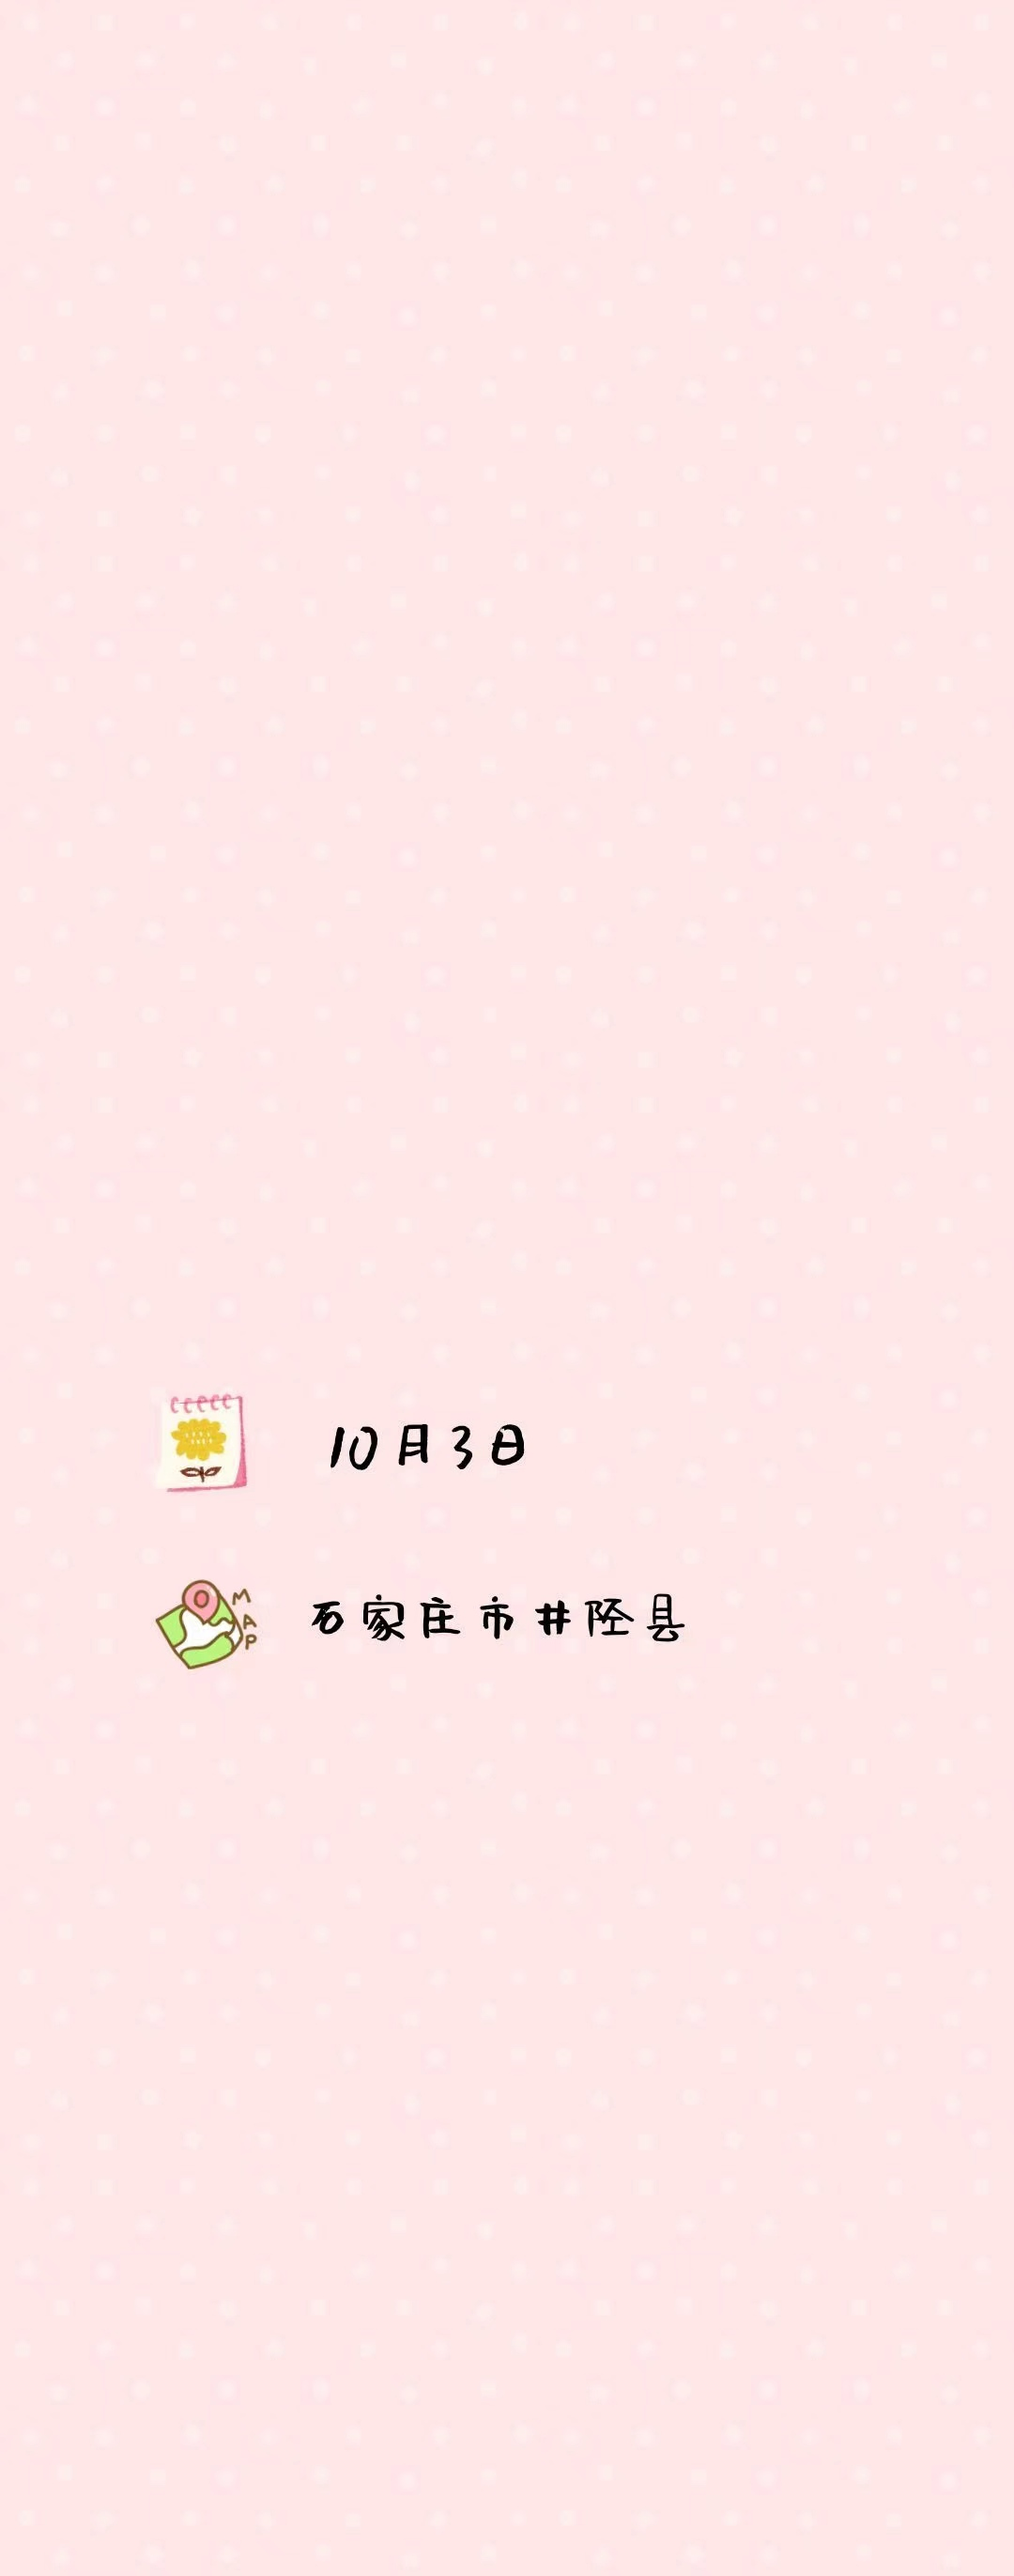
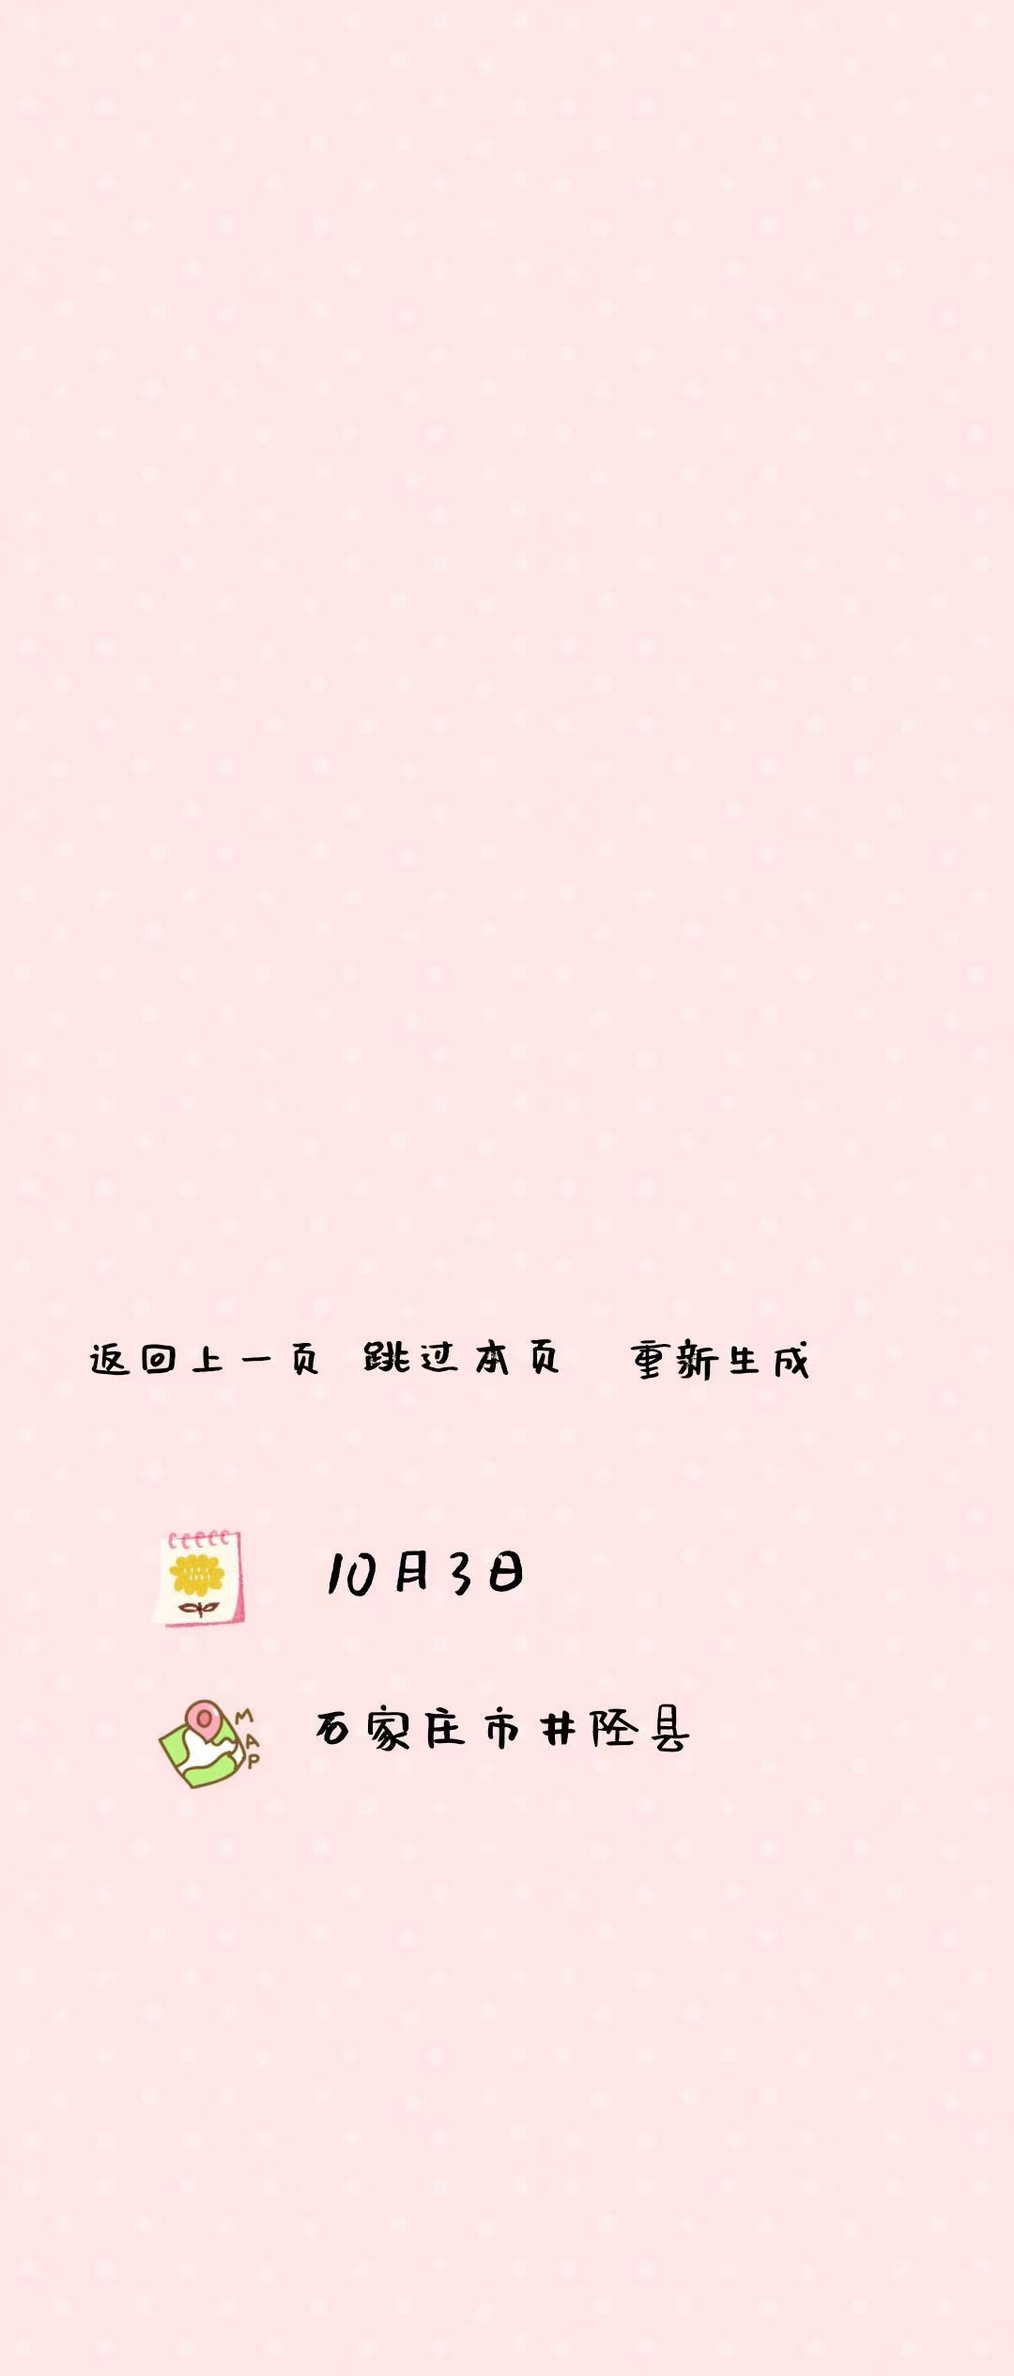
Add files via upload

diff --git a/css/level6.css b/css/level6.css
@@ -823,7 +823,7 @@
     width: 200px;
     height: 200px;
     margin-left: 90px;
-    margin-top: 1099.0px;
+    margin-top: 1190.0px;
     z-index: 0;
 }
 
@@ -832,7 +832,7 @@
     width: 200px;
     height: 200px;
     margin-left: 380px;
-    margin-top: 1099.0px;
+    margin-top: 1190.0px;
     z-index: 0;
 }
 
@@ -841,7 +841,7 @@
     width: 200px;
     height: 200px;
     margin-left: 670px;
-    margin-top: 1099.0px;
+    margin-top: 1190.0px;
     z-index: 0;
 }
 
